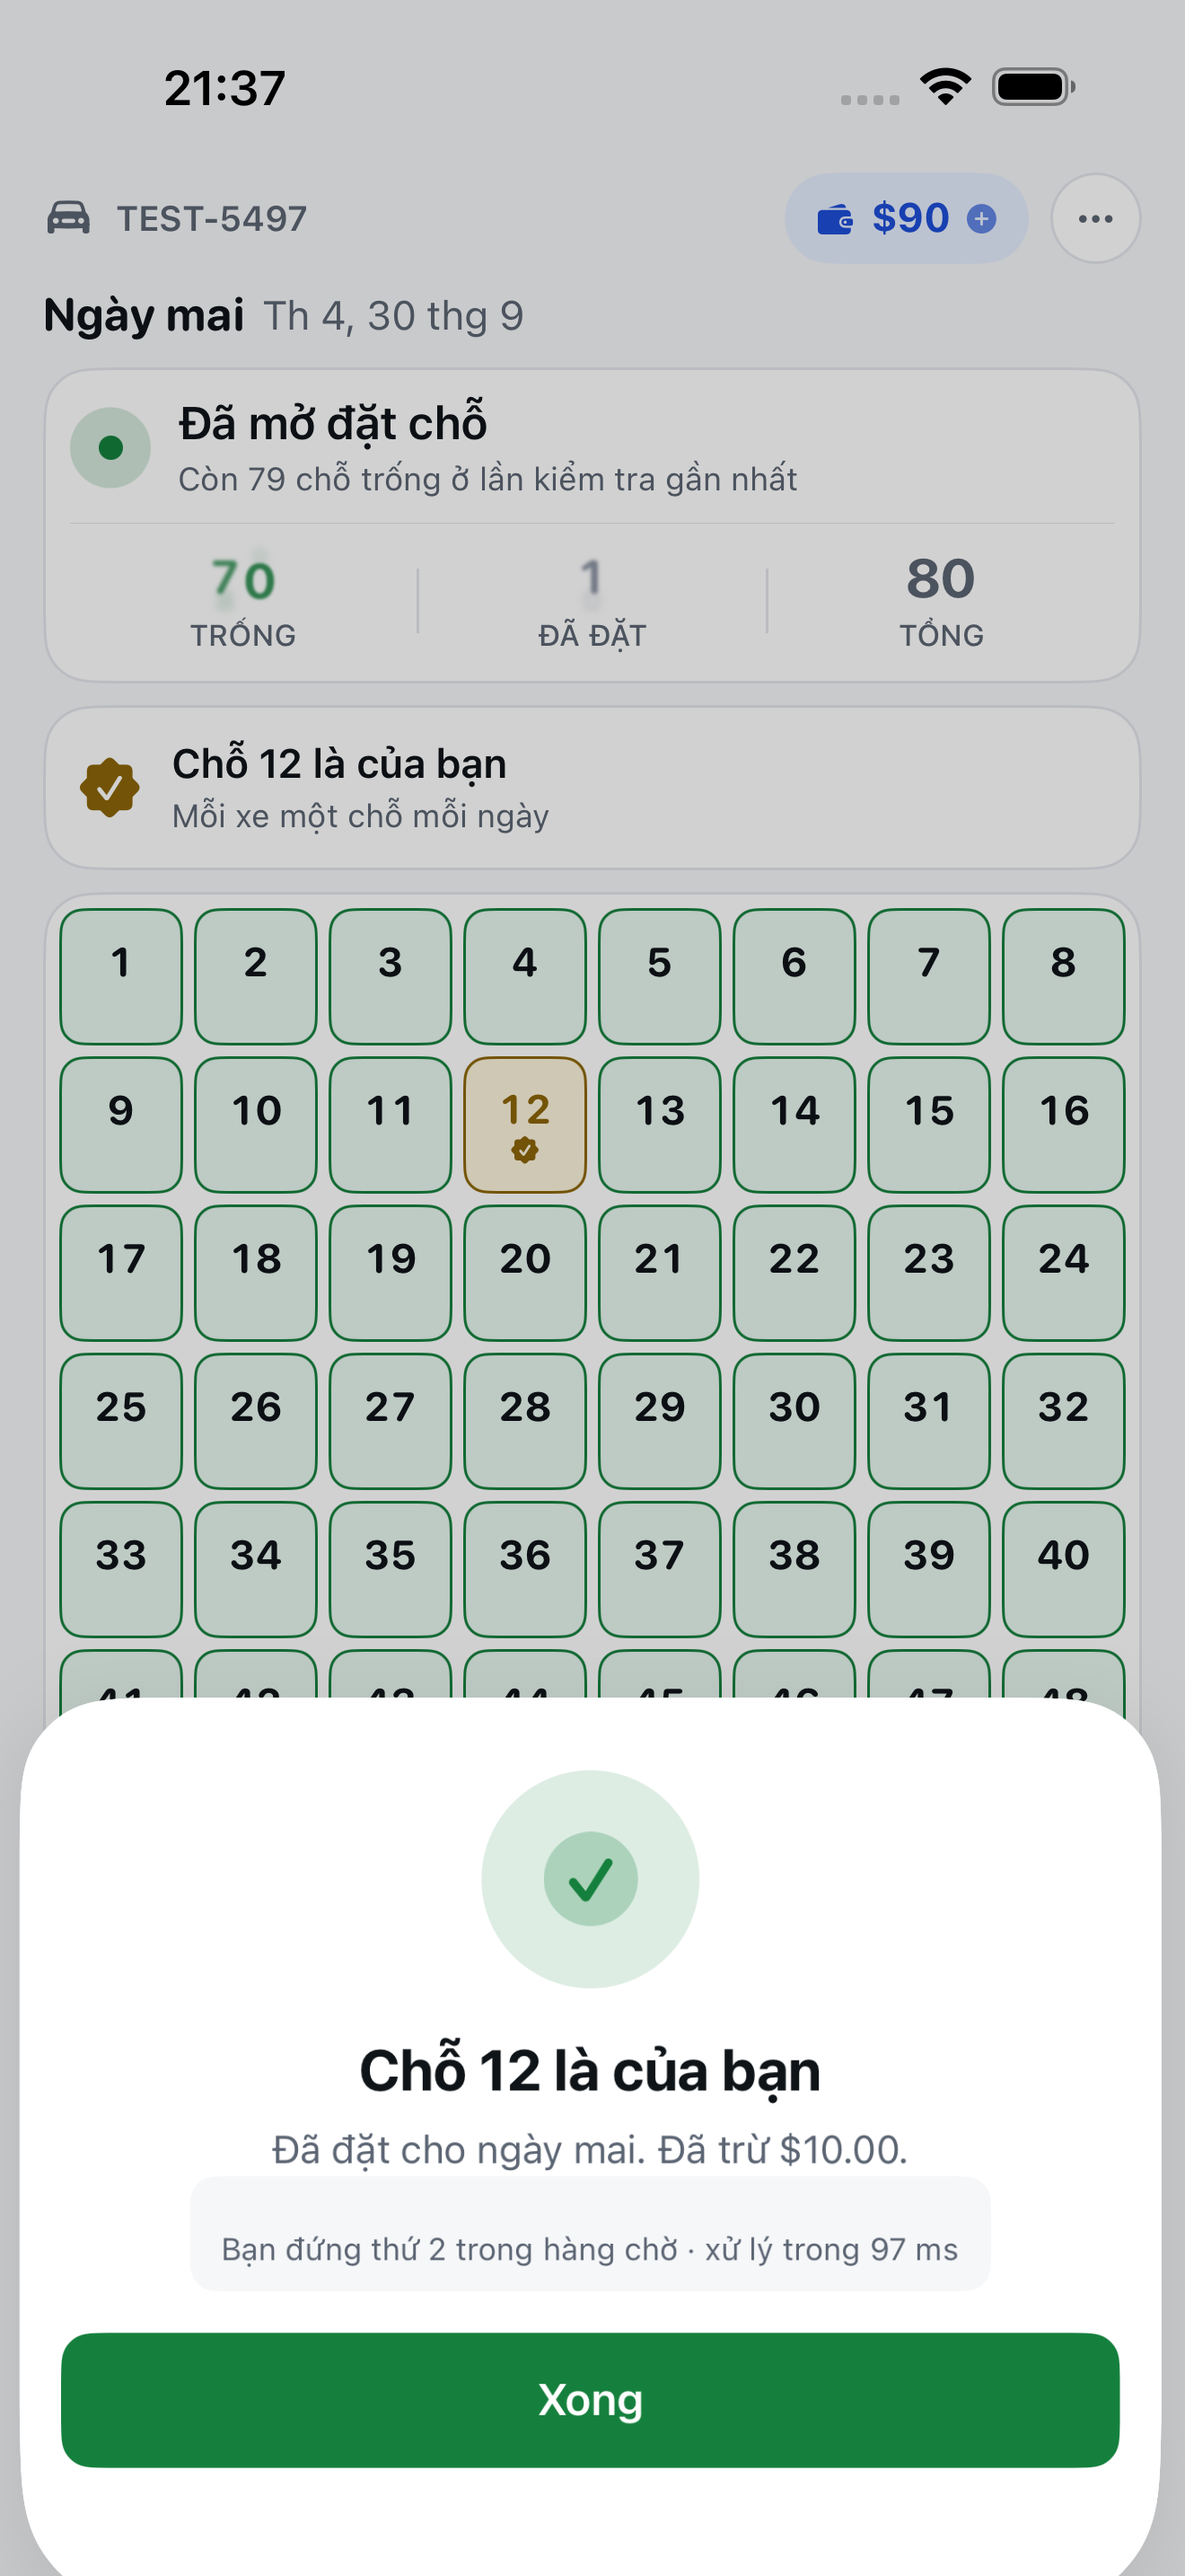
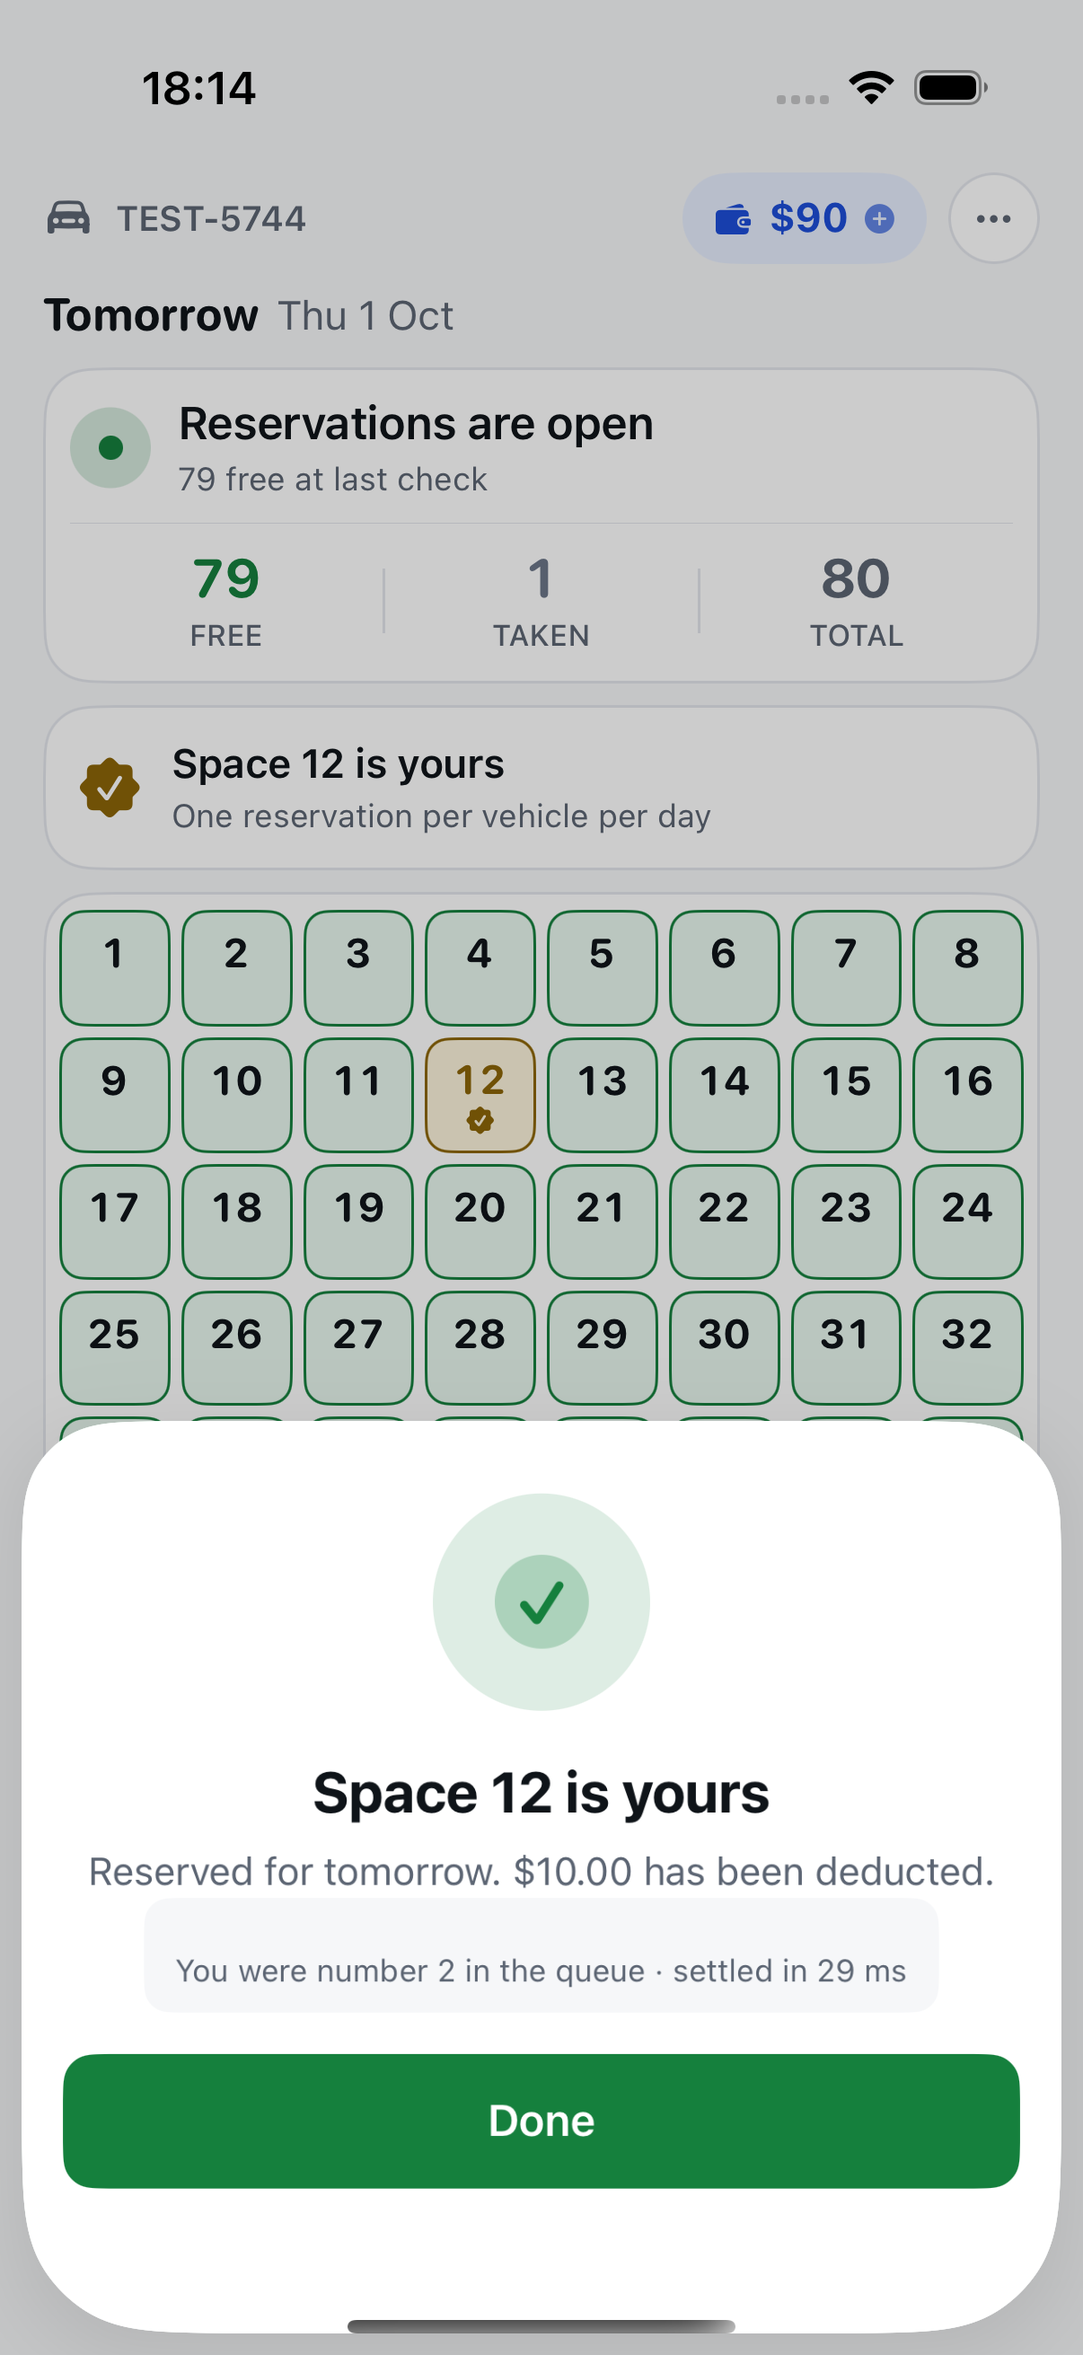
Regenerate the checkpoint images with the evened-out board
The race, concurrency and Vietnamese board images are captured afresh
from make rehearse, make concurrent and the board geometry test, so the
slides and the demo fallbacks show the current board and legend
margins. The pinning, largest-text and "before" images do not show the
board and are left as they were; the "before" must be.

The concurrency test now pauses before its screenshot. Captured the
moment the outcome title appeared, the winner's FREE and TAKEN counts
were caught mid-transition; the tap timings are recorded before the
pause, so none of the measurements change.

diff --git a/Tests/UITests/RehearsalUITests.swift b/Tests/UITests/RehearsalUITests.swift
@@ -97,6 +97,10 @@ final class RehearsalUITests: XCTestCase {
         }
         let outcome = won.exists ? "won" : lost.exists ? "lost" : "none"
         print("CONCURRENT outcome=\(outcome) tapStarted=\(started) tapReturned=\(tapped)")
+        // Let the sheet and the refreshed counts settle first: captured the moment the title
+        // appeared, a slide shipped with FREE and TAKEN mid-transition. The timings above are
+        // already taken, so the pause measures nothing differently.
+        Thread.sleep(forTimeInterval: 1.5)
         capture("concurrent-\(outcome)")
         XCTAssertNotEqual(outcome, "none", "the app showed neither outcome")
         // XCTest closes the app when the test ends. Hold the result on screen first, so both

diff --git a/docs/final-checkpoint/slides.md b/docs/final-checkpoint/slides.md
@@ -142,7 +142,7 @@ Every result is checked against the database, not only the screen.
 
 <p>
 <img src="images/concurrent-won.png" width="260" alt="Space 12 is yours">
-<img src="images/concurrent-lost.png" width="260" alt="Someone was faster">
+<img src="images/concurrent-lost.png" width="260" alt="Someone was faster, in Vietnamese and dark mode">
 </p>
 
 - **API:** both requests released from a barrier, median 32 µs apart. **20 of 20** trials: one
